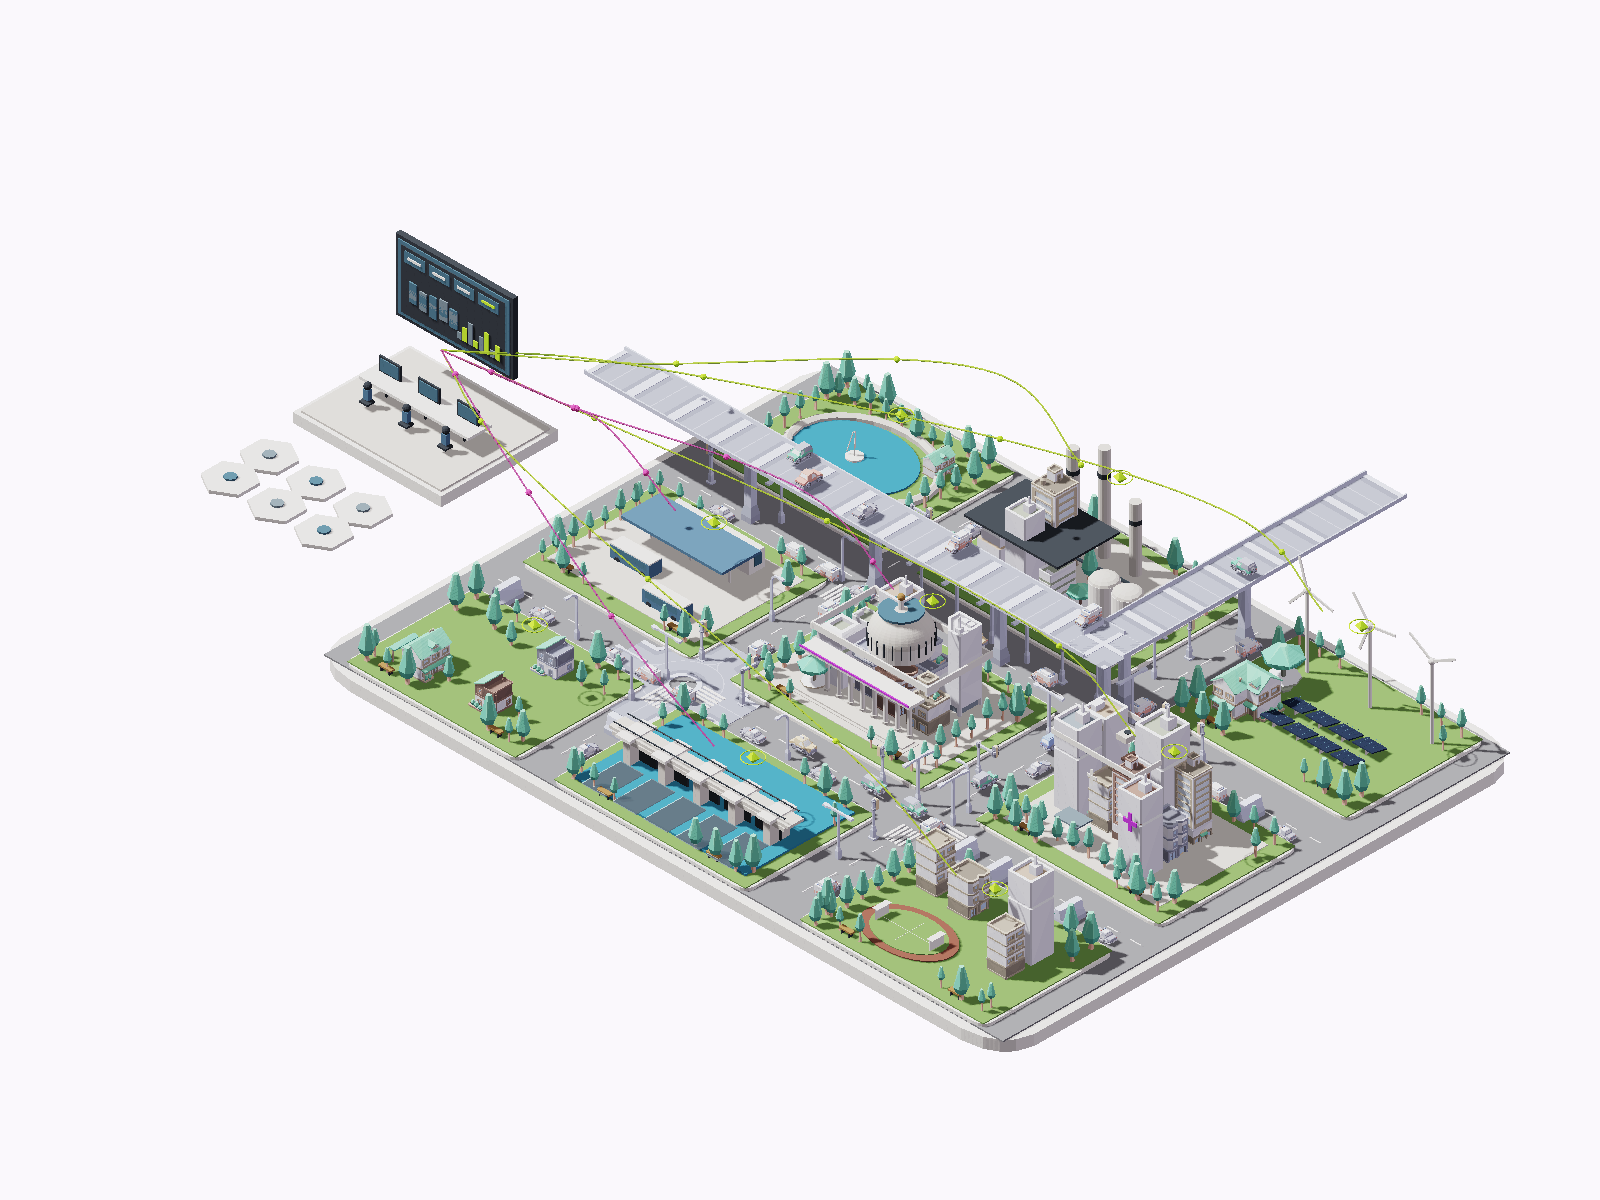
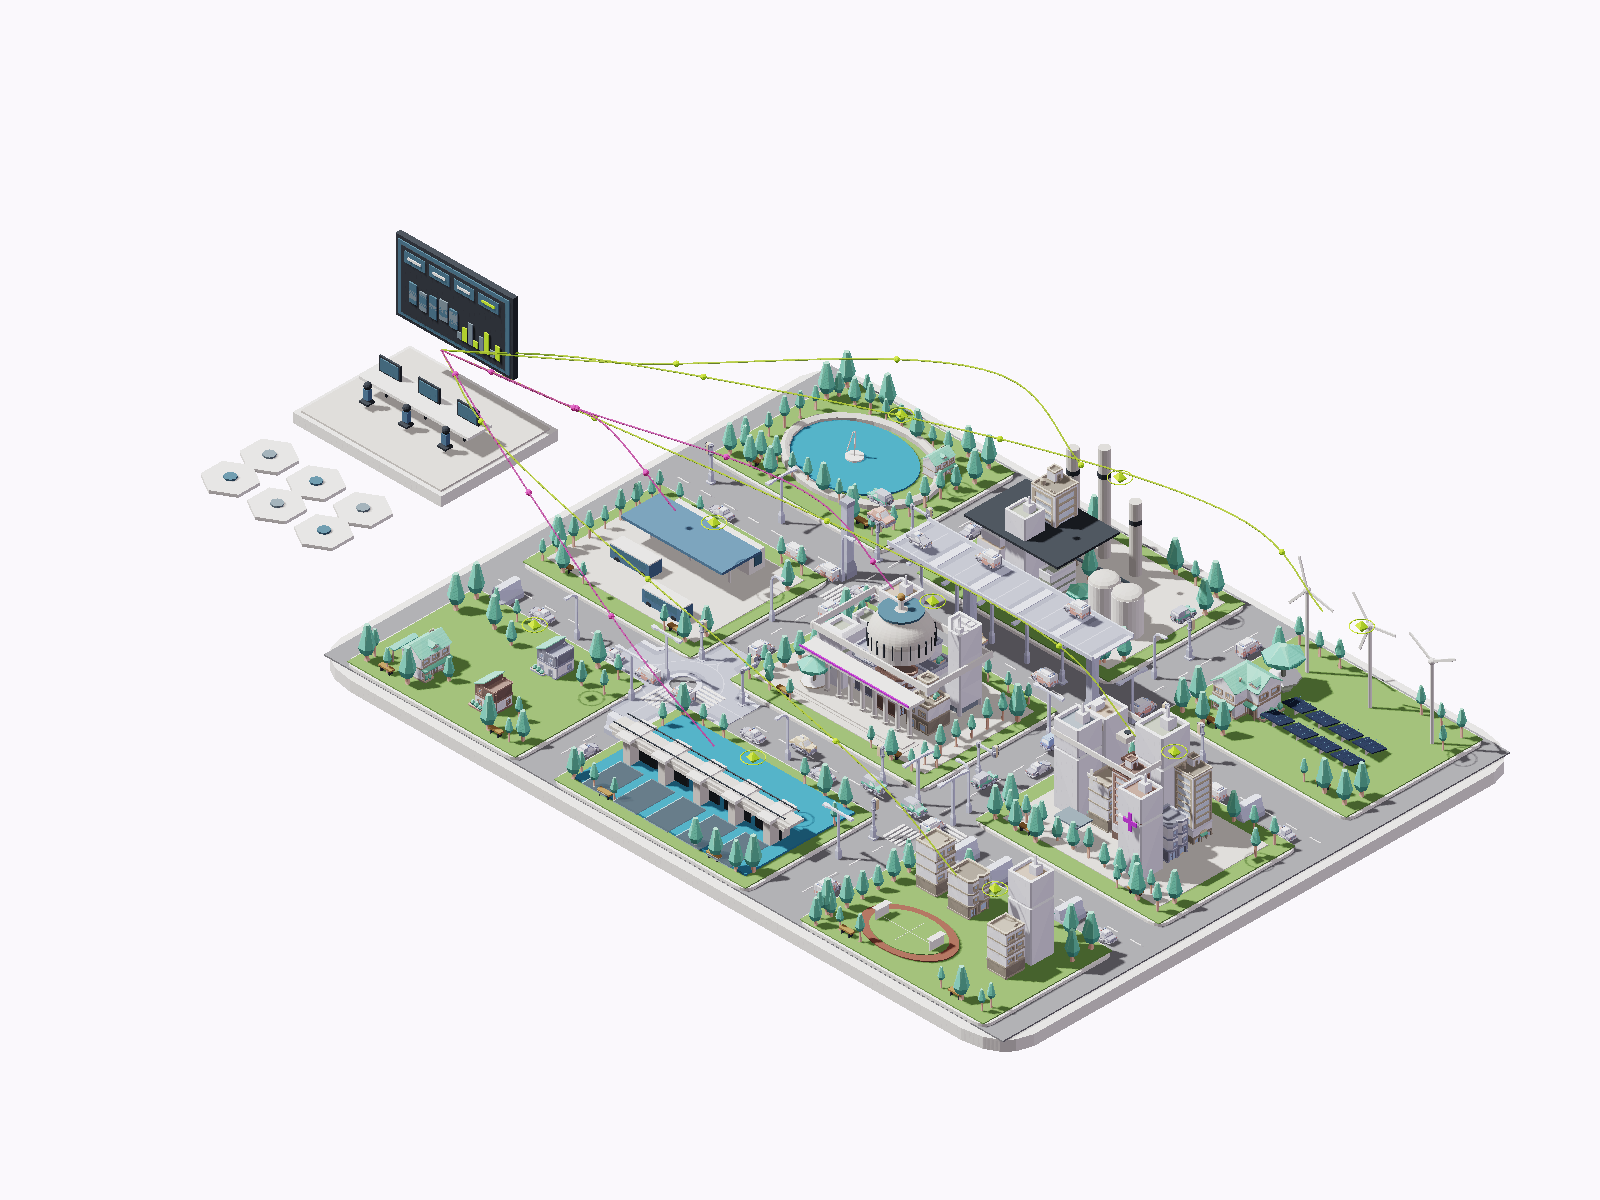
Land the expressway on the ground and float the narrative
The expressway was cut off at both edges of the plate, which read as a broken
bridge rather than a road. Both ends now come down to street level inside the
city. Kenney's ramp tile climbs 0.52 of a tile per tile, so the deck sits at
exactly three of those and the ramp meets it with no step at the top and no lip
at the bottom; the deck is laid from a height profile along the route, which is
also what the six cars on it now follow, so they climb the ramps instead of
appearing at altitude. Their heading was wrong before: a car's forward is +X,
which is what the ground loop drives, while a road tile's is +Z, and the traffic
was taking the tile's angle.

The stage now carries the city alone. The heading, readout and controls float
over the canvas instead of taking bands of height beside it - they were costing a
third of the canvas height, and because the camera keeps both axes in frame, a
wide short canvas forced it out to 152 units to show a city only 99 across, which
is why the model looked small. The readout is also narrower than the stage so it
stops covering the near edge of the city.

The narrative drops every rule, border and filled band and grows a size, so the
right-hand column reads as text laid on the page rather than a panel beside the
model, and the two halves are divided by nothing but the space between them.

Verified in Chromium: WebGL initialises, the scene renders, the canvas is
1024x814 where it was 1024x536, and the whole city including both ramps sits in
[…]

Changed region(s): [[0.375, 0.2775, 0.875, 0.6167]]

diff --git a/src/intelligence/civic-model.js b/src/intelligence/civic-model.js
@@ -13,7 +13,26 @@ export function createCivicCity(kit=null){
  const placer=kit&&new KitPlacer(kit);
  // Route of the elevated expressway, its deck height and the width of one bay.
  // Declared here because both the structure and the traffic on it need them.
- const VIADUCT=[[14,-46],[14,-10],[-50,-10]],DECK=8.2,LANE=5.4;
+ // Both ends land on the ground inside the plate and ramp up, rather than being
+ // cut off at the edge. Kenney's ramp tile climbs 0.52 of a tile per tile, so the
+ // deck height is three of those exactly - the ramp then meets the deck with no
+ // step at the top and no lip at the bottom.
+ const VIADUCT=[[14,-32],[14,-10],[-32,-10]],LANE=5.4,RAMP=3*LANE,DECK=3*.52*LANE;
+ const legList=VIADUCT.slice(0,-1).map(([ax,az],i)=>{
+  const [bx,bz]=VIADUCT[i+1];
+  return {ax,az,dx:bx-ax,dz:bz-az,span:Math.hypot(bx-ax,bz-az),turn:Math.atan2(bx-ax,bz-az)};
+ });
+ const routeLength=legList.reduce((sum,leg)=>sum+leg.span,0);
+ // Height at a distance along the route: up one ramp, flat, down the other.
+ const deckAt=s=>DECK*Math.max(0,Math.min(1,Math.min(s,routeLength-s)/RAMP));
+ const pointAt=s=>{
+  let d=Math.max(0,Math.min(routeLength,s));
+  for(const leg of legList){
+   if(d>leg.span&&leg!==legList[legList.length-1]){d-=leg.span;continue;}
+   const t=Math.min(1,d/leg.span);
+   return [leg.ax+leg.dx*t,leg.az+leg.dz*t,leg.turn,leg.dx/leg.span,leg.dz/leg.span];
+  }
+ };
  // Architecture uses real building materials. Lime and orchid are the site's
  // identity and stay on the layer that carries it - data routes, forecast
  // overlays and the command center's screens - so the city itself is never
@@ -164,21 +183,16 @@ export function createCivicCity(kit=null){
  // rather than instances. civic-motion.js drives the group and expects the car
  // to face +X; kit cars are modelled nose-along -Z, hence the quarter turn.
  // Traffic on the expressway runs its own polyline; the rest keep the ground loop.
- const legs=VIADUCT.slice(0,-1).map(([ax,az],i)=>{
-  const [bx,bz]=VIADUCT[i+1];
-  return {ax,az,dx:bx-ax,dz:bz-az,span:Math.hypot(bx-ax,bz-az),turn:Math.atan2(bx-ax,bz-az)};
- });
- const total=legs.reduce((sum,leg)=>sum+leg.span,0);
+ // It rides the same height profile as the deck, so cars climb the ramps rather
+ // than appearing at altitude.
  const viaductRoute=(offset,reverse)=>u=>{
-  let d=((reverse?1-u:u)+offset)%1*total;
-  for(const leg of legs){
-   if(d>leg.span){d-=leg.span;continue;}
-   const t=d/leg.span,side=reverse?-1:1;
-   // Sit in a lane rather than on the centre line, and face the way of travel.
-   const nx=leg.dz/leg.span*side*LANE*.2,nz=-leg.dx/leg.span*side*LANE*.2;
-   return [leg.ax+leg.dx*t+nx,DECK+.55,leg.az+leg.dz*t+nz,leg.turn+(reverse?Math.PI:0)];
-  }
-  return [legs[0].ax,DECK+.55,legs[0].az,legs[0].turn];
+  const s=((reverse?1-u:u)+offset)%1*routeLength;
+  const [px,pz,,ux,uz]=pointAt(s);
+  const side=reverse?-1:1;
+  // Sit in a lane rather than on the centre line, and face the way of travel.
+  // A car's own forward is +X - that is what the ground loop drives - while a
+  // road tile's is +Z, so the two take different angles from the same heading.
+  return [px+uz*side*LANE*.2,deckAt(s)+.55,pz-ux*side*LANE*.2,Math.atan2(-uz*side,ux*side)];
  };
  for(let i=0;i<(placer?14:8);i++){
   const car=new T.Group();root.add(car);vehicles.push(car);
@@ -195,33 +209,35 @@ export function createCivicCity(kit=null){
  const risk=new T.Mesh(new T.PlaneGeometry(23,16),new T.MeshBasicMaterial({color:'#F05BB5',transparent:true,opacity:.24,side:T.DoubleSide,depthWrite:false,polygonOffset:true,polygonOffsetFactor:-2}));risk.rotation.x=-Math.PI/2;risk.position.set(-2,4.45,22);overlays.add(risk);
  const warning=new T.Mesh(new T.OctahedronGeometry(.8),p.warning);warning.position.set(-2,6.5,24);overlays.add(warning);
  // An elevated expressway threading the city on piers. Nine platforms on a three
- // by three grid read as a diagram; a route that crosses the whole city at height,
- // turns a corner and runs off both edges is what makes it read as somewhere a
- // road passes through. It follows the existing corridors, so it clears every
- // building and its piers land on open ground.
+ // by three grid read as a diagram; a route that climbs off the street, crosses
+ // the city at height, turns a corner and comes back down is what makes it read
+ // as somewhere a road passes through. It follows the existing corridors, so it
+ // clears every building and its piers land on open ground.
  if(placer){
-  const deck=kit.get('roads/road-straight'),rail=kit.get('roads/road-straight-barrier');
-  const pier=kit.get('roads/bridge-pillar-wide'),junction=kit.get('roads/road-crossroad');
-  // The pier model is a slim 0.14 post; carried to deck height by uniform scale
-  // it would be a needle, so width and height are scaled apart.
-  const column=(px,pz)=>placer.place(pier,{owner:root,x:px,y:0,z:pz,scale:9,scaleY:DECK/pier.height});
-  let carried=0;
-  for(let leg=0;leg<VIADUCT.length-1;leg++){
-   const [ax,az]=VIADUCT[leg],[bx,bz]=VIADUCT[leg+1];
-   const dx=bx-ax,dz=bz-az,span=Math.hypot(dx,dz),turn=Math.atan2(dx,dz);
-   const tiles=Math.max(1,Math.round(span/LANE));
-   for(let i=0;i<tiles;i++){
-    const t=(i+.5)/tiles,px=ax+dx*t,pz=az+dz*t;
-    placer.place(deck,{owner:root,x:px,y:DECK,z:pz,scale:LANE,rotation:turn});
-    placer.place(rail,{owner:root,x:px,y:DECK,z:pz,scale:LANE,rotation:turn});
-    // Piers every third bay, and never out over the plate's edge lip.
-    if(carried++%3===0&&Math.abs(px)<44&&Math.abs(pz)<33)column(px,pz);
+  const flat=kit.get('roads/road-straight'),rail=kit.get('roads/road-straight-barrier');
+  const slope=kit.get('roads/road-slant-high'),slopeRail=kit.get('roads/road-slant-high-barrier');
+  const pier=kit.get('roads/bridge-pillar-wide');
+  const bays=Math.round(routeLength/LANE);
+  for(let i=0;i<bays;i++){
+   const s=(i+.5)*routeLength/bays;
+   const [px,pz,turn]=pointAt(s);
+   const low=deckAt(s-LANE/2),high=deckAt(s+LANE/2);
+   if(Math.abs(high-low)<.01){
+    placer.place(flat,{owner:root,x:px,y:low,z:pz,scale:LANE,rotation:turn});
+    placer.place(rail,{owner:root,x:px,y:low,z:pz,scale:LANE,rotation:turn});
+   }else{
+    // The ramp tile's high edge sits on its local -Z, so it faces uphill only
+    // when turned to put that edge in the direction of the climb.
+    const uphill=high>low?turn+Math.PI:turn;
+    placer.place(slope,{owner:root,x:px,y:Math.min(low,high),z:pz,scale:LANE,rotation:uphill});
+    placer.place(slopeRail,{owner:root,x:px,y:Math.min(low,high),z:pz,scale:LANE,rotation:uphill});
    }
+   // Piers carry the deck only where it is genuinely off the ground. Width and
+   // height are scaled apart: the model is a slim 0.14 post and a uniform scale
+   // to deck height would leave a needle, which made the deck look unsupported.
+   if(i%3===1&&low>DECK*.55)
+    placer.place(pier,{owner:root,x:px,y:0,z:pz,scale:9,scaleY:low/pier.height});
   }
-  // Square the corner with a junction tile and carry it on its own pier.
-  const [cx,,cz]=[VIADUCT[1][0],0,VIADUCT[1][1]];
-  placer.place(junction,{owner:root,x:cx,y:DECK,z:cz,scale:LANE});
-  column(cx,cz);
   // A roundabout where two ground streets meet, so the grid has one junction
   // that is not another right angle.
   placer.place(kit.get('roads/road-roundabout'),{owner:root,x:-17,y:.06,z:13,scale:LANE*.92,rotation:0});

diff --git a/src/intelligence/style.css b/src/intelligence/style.css
@@ -8,3 +8,67 @@
 @media(max-width:1100px){.scene-readout{padding:14px 16px}.scene-readout strong{font-size:21px}.scene-readout p{font-size:11px}.view-controls button{padding:9px 11px}.narrative-column{padding-left:2vw}.map-names span{font-size:10px}.view-note{font-size:10px}}
 @media(max-width:800px){.scene-readout{display:none}.site-header nav a{padding:7px 9px}.site-header nav{gap:4px}.brand svg{width:27px}.visual-column{height:460px}.city-view{min-height:300px}}
 @media(prefers-reduced-motion:reduce){.activity-symbol i{animation:none}#motion-toggle{display:none}}
+
+/* The stage is the city. The readout, the heading and the controls float on top
+   of it rather than taking their own bands of height, which is what let the
+   canvas keep only a wide, short strip: the city is 99 units across and 76 tall,
+   so a 2.3:1 canvas had to zoom out to 152 units to fit its height, and the
+   model ended up small in the middle of the frame. Floating them also drops the
+   card edges between the visual and the narrative, so the two columns read as
+   one spread instead of two sections. */
+.visual-column{padding:0}
+.visual-stage{position:relative;display:block}
+.city-view{position:absolute;inset:0;min-height:0;background:none}
+.view-heading,.scene-readout,.view-controls,.view-note{position:absolute;z-index:3}
+.view-heading{top:0;left:0;right:0;padding:16px 26px;pointer-events:none}
+.scene-readout{left:26px;right:auto;width:min(520px,52%);bottom:88px;margin:0;background:#52205EE8;backdrop-filter:blur(14px);box-shadow:0 14px 40px #52205E1F}
+.view-controls{left:26px;bottom:22px;padding:0}
+.view-note{right:26px;bottom:24px;margin:0;max-width:34%;text-align:right}
+.narrative-column{padding-left:3vw}
+/* Explore takes the whole viewport, so the overlays move in with the padding. */
+.exploring .visual-column{padding:0}
+.exploring .view-heading{padding:18px 5vw}
+.exploring .view-controls{left:5vw}
+.exploring .view-note{right:5vw}
+@media(max-width:800px){
+ .visual-stage{height:100%}
+ .view-heading{padding:10px 14px}
+ .scene-readout{display:none}
+ .view-note{left:14px;right:14px;bottom:8px;max-width:none;text-align:left}
+}
+
+/* The narrative reads as text laid on the page, not as a panel beside the city.
+   Every card edge, rule and filled band in the right-hand column comes off, so
+   the only thing dividing the two halves is the whitespace between them, and the
+   type carries the hierarchy on its own. Larger with it: at this measure the old
+   sizes were set for a column half the visual weight of the model. */
+.story-section{border-bottom:0;padding:96px 0 88px}
+.story-points li{border-top:0;padding:14px 0}
+.phase-band{background:none;padding:0 0 0 15px;border-left:2px solid var(--lime);border-radius:0;margin-bottom:26px}
+#ai .phase-band{background:none;border-left-color:#F05BB5}
+.district-list button{background:none;border:0;border-bottom:1px solid var(--line);border-radius:0;padding:13px 2px}
+.district-list button:hover{border-color:#C044D9;background:none}
+.takeaway{margin:32px 0}
+h1{font-size:clamp(40px,3.7vw,66px);margin-bottom:30px}
+.section-phase{font-size:13px;margin-bottom:30px}
+.section-intro{font-size:21px;line-height:1.72;max-width:34ch;margin-bottom:34px}
+.story-points h2{font-size:18px;margin-bottom:8px}
+.story-points p{font-size:16px;line-height:1.7}
+.story-points li>span{font-size:12px;padding-top:6px}
+.takeaway{font-size:17px;line-height:1.75}
+.next-section{font-size:14px;margin-top:34px}
+.district-list button{font-size:14px}
+/* The readout sat across the full width and covered the near edge of the city. */
+.scene-readout{right:auto;width:min(520px,52%);bottom:92px}
+@media(max-width:1100px){
+ h1{font-size:clamp(32px,3.4vw,46px)}
+ .section-intro{font-size:18px}
+ .story-points p{font-size:15px}
+ .takeaway{font-size:15px}
+}
+@media(max-width:800px){
+ .story-section{padding:60px 0}
+ h1{font-size:38px}
+ .section-intro{font-size:18px;max-width:none}
+ .story-points p{font-size:15px}
+}

diff --git a/src/intelligence/civic-scene.js b/src/intelligence/civic-scene.js
@@ -46,7 +46,7 @@ export async function mountCivicScene(host,{onReady,onSelect,onLabels}) {
   const horizontal=Math.max(span,minHeight*w/h);
   camera.left=-horizontal/2;camera.right=horizontal/2;camera.top=horizontal/2*h/w;camera.bottom=-camera.top;camera.updateProjectionMatrix();invalidate();
  }
- function home(){span=145;minHeight=92;controls.target.set(-15,4,0);camera.position.copy(controls.target).add(new T.Vector3(102,100,102));camera.lookAt(controls.target);resize();controls.update();}
+ function home(){span=108;minHeight=84;controls.target.set(-13,1,2);camera.position.copy(controls.target).add(new T.Vector3(102,100,102));camera.lookAt(controls.target);resize();controls.update();}
  new ResizeObserver(resize).observe(host);
  new IntersectionObserver(([entry])=>{visible=entry.isIntersecting;last=0;invalidate();}).observe(host);
  controls.addEventListener('change',invalidate);
@@ -61,6 +61,6 @@ export async function mountCivicScene(host,{onReady,onSelect,onLabels}) {
   setStage(id,progress=0){city.setStage(id,progress);invalidate();},
   setPaused(value){paused=value;last=0;invalidate();},
   setExplore(value){explore=value;controls.enabled=value;},home,
-  focus(id){const pos=city.locations[id];if(!pos)return;span=id==='command'?75:95;minHeight=span*.65;controls.target.set(...pos);camera.position.copy(controls.target).add(new T.Vector3(102,100,102));camera.lookAt(controls.target);resize();controls.update();invalidate();}
+  focus(id){const pos=city.locations[id];if(!pos)return;span=id==='command'?58:74;minHeight=span*.7;controls.target.set(...pos);camera.position.copy(controls.target).add(new T.Vector3(102,100,102));camera.lookAt(controls.target);resize();controls.update();invalidate();}
  };
 }

diff --git a/docs/city-intelligence.md b/docs/city-intelligence.md
@@ -61,14 +61,19 @@ lamps, signals, signs, skips and parked cars: they had nothing but paint before,
 which was most of why the city read as a model rather than a place.
 
 Nine platforms on a three by three grid still read as a diagram, so an elevated
-expressway crosses the whole city on piers, turns a corner and runs off both
-edges. It follows the existing road corridors, which is what keeps it clear of
-every building and puts its piers on open ground, and it is the one element in
-the scene that is neither on the grid nor on the ground. A roundabout replaces
+expressway climbs off the street, crosses the whole city on piers, turns a corner
+and comes back down. Both ends land on the ground inside the plate; a deck simply
+cut off at the edge read as a broken bridge. Kenney's ramp tile climbs 0.52 of a
+tile per tile, so the deck height is three of those exactly and the ramp meets it
+with no step at the top and no lip at the bottom. It follows the existing road
+corridors, which is what keeps it clear of every building and puts its piers on
+open ground, and it is the one element in the scene that is neither on the grid
+nor on the ground. A roundabout replaces
 one street junction so the ground plan has a corner that is not another right
-angle. Six cars run the expressway on their own polyline; the other eight keep
-the central loop, so `civic-motion.js` gained only a check for a per-vehicle
-route and drives everything else exactly as before.
+angle. Six cars run the expressway on their own polyline and ride the same height
+profile as the deck, so they climb the ramps rather than appearing at altitude;
+the other eight keep the central loop, so `civic-motion.js` gained only a check
+for a per-vehicle route and drives everything else exactly as before.
 
 ## Story and interaction
 
@@ -99,14 +104,22 @@ working, since a raycast still reaches a district's `userData.asset` walking up
 from an instance. If the kit cannot be fetched, `createCivicCity()` falls back to
 the procedural slabs rather than dropping the page to the static preview.
 
+The stage carries the city alone: the heading, the readout and the controls float
+over the canvas rather than taking bands of height beside it. They were costing
+the canvas a third of its height, and since the fit keeps both axes in frame, a
+wide short canvas forced the camera out to 152 units to show a city only 99
+across. Floating them also removes the card edges between the two columns, and
+the narrative drops its rules, borders and filled bands so the right-hand column
+reads as text laid on the page rather than a panel beside the model.
+
 Desktop uses WebGL when available. Mobile and unavailable WebGL use a labeled static model preview with the complete text story. `npm run poster` renders that preview from the real scene at the IoT chapter with a software rasteriser (`scripts/render-poster.mjs`), sampling the same atlas pixels and material colours the browser samples, so the preview cannot drift from the scene. It casts shadows through a software shadow map of its own, but has no ambient occlusion and no environment reflections, so it still reads flatter than the GPU render.
 
 ## Verification
 
 - Production build for all three page entries.
 - `node tests/civic-motion.test.mjs`: vehicles and rotors move; equal timestamps preserve ambient poses; connection reveal progresses; water and gates reverse; mock forecast values match; geometry counts remain stable through every chapter. This runs the procedural fallback, since it builds the city with no kit.
-- `node tests/kenney-city.test.mjs`: every kit model loads and reports a finite extent with no tangent attribute; the city builds with the kit; rotors, the fourteen vehicles, the flood gates and the water surface all survive the swap; expressway traffic rides the deck and moves along it; every district keeps its location and clickable group; kit buildings land inside districts; geometry counts stay stable through every chapter.
-- With the kit: 629 meshes, 926 instances, 177,030 triangles. Without it: 1,570 meshes, 103,242 triangles. The kit city carries half again the triangles of the procedural one but a third of the meshes, which is the trade that buys the density.
+- `node tests/kenney-city.test.mjs`: every kit model loads and reports a finite extent with no tangent attribute; the city builds with the kit; rotors, the fourteen vehicles, the flood gates and the water surface all survive the swap; expressway traffic climbs to the deck and returns to the street over one lap; every district keeps its location and clickable group; kit buildings land inside districts; geometry counts stay stable through every chapter.
+- With the kit: 628 meshes, 894 instances, 175,848 triangles. Without it: 1,570 meshes, 103,242 triangles. The kit city carries half again the triangles of the procedural one but a third of the meshes, which is the trade that buys the density.
 - Served build checked over HTTP: page, GLB, atlas and preview image all return 200.
 - Offline poster render inspected. GPU appearance, shadow quality, ambient occlusion and frame rate remain unverified: this environment has no WebGL, so nothing here has been seen through the real renderer. The poster's own shadows come from its software shadow map, not from the renderer the page uses.
 
